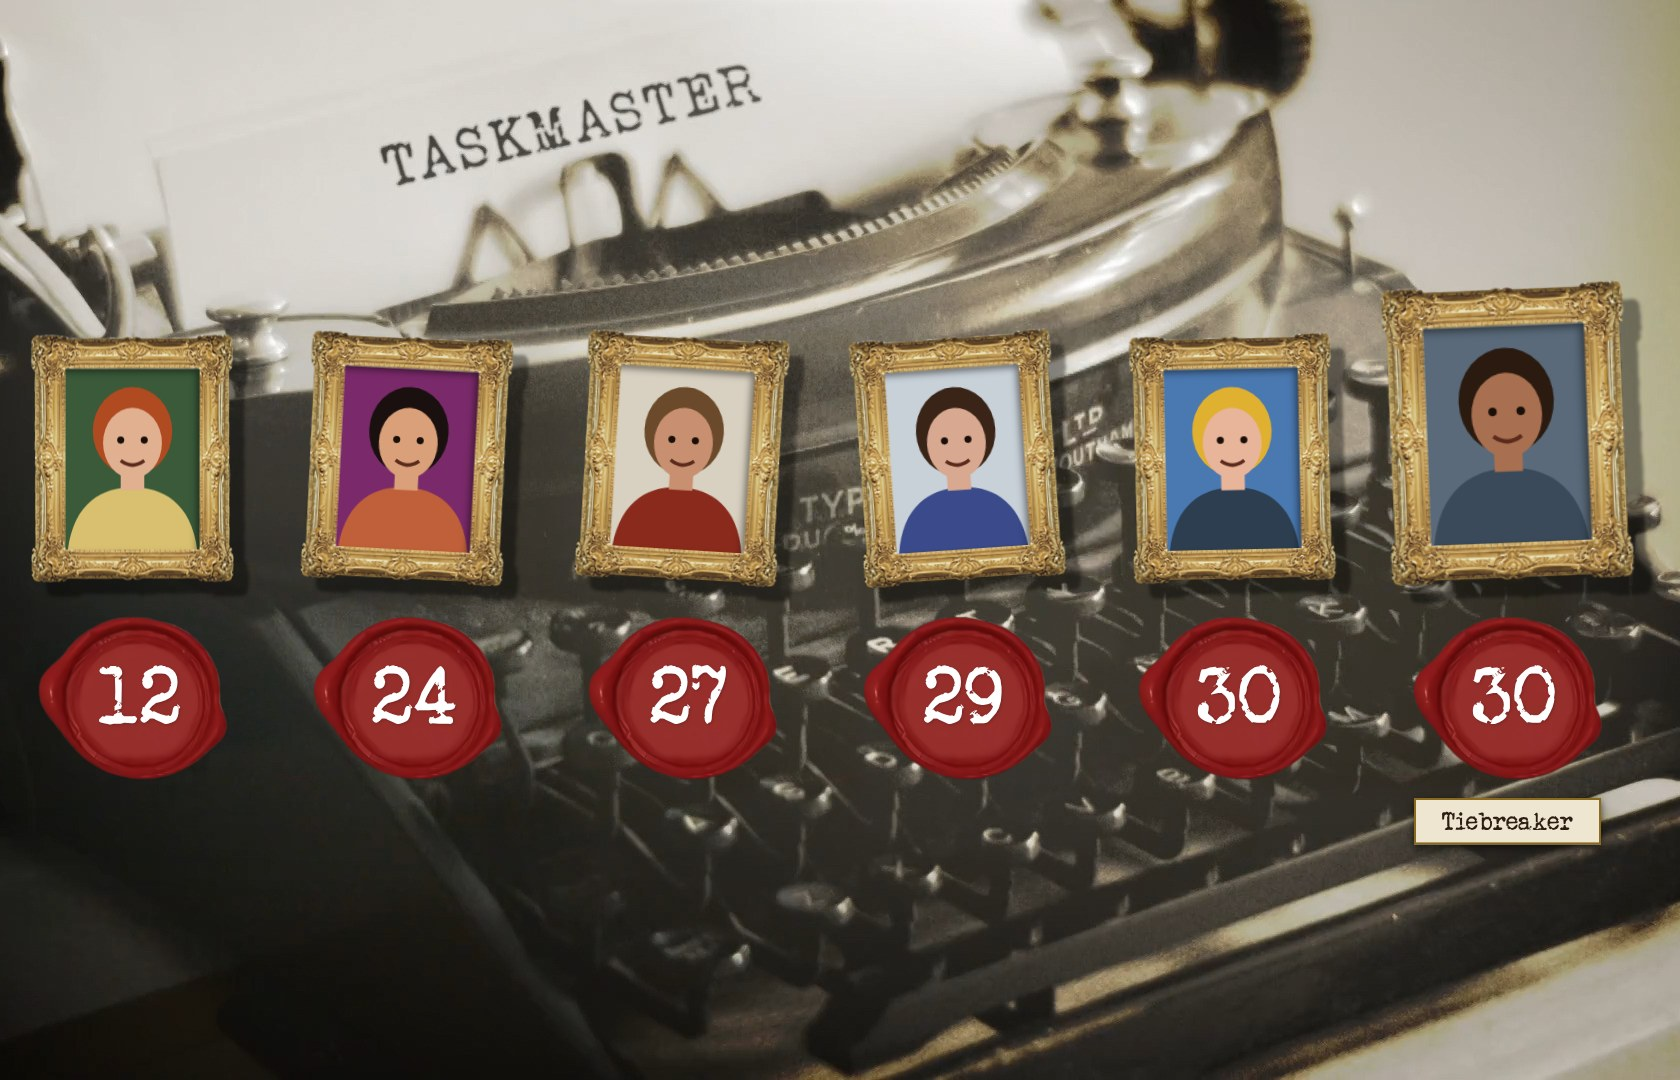
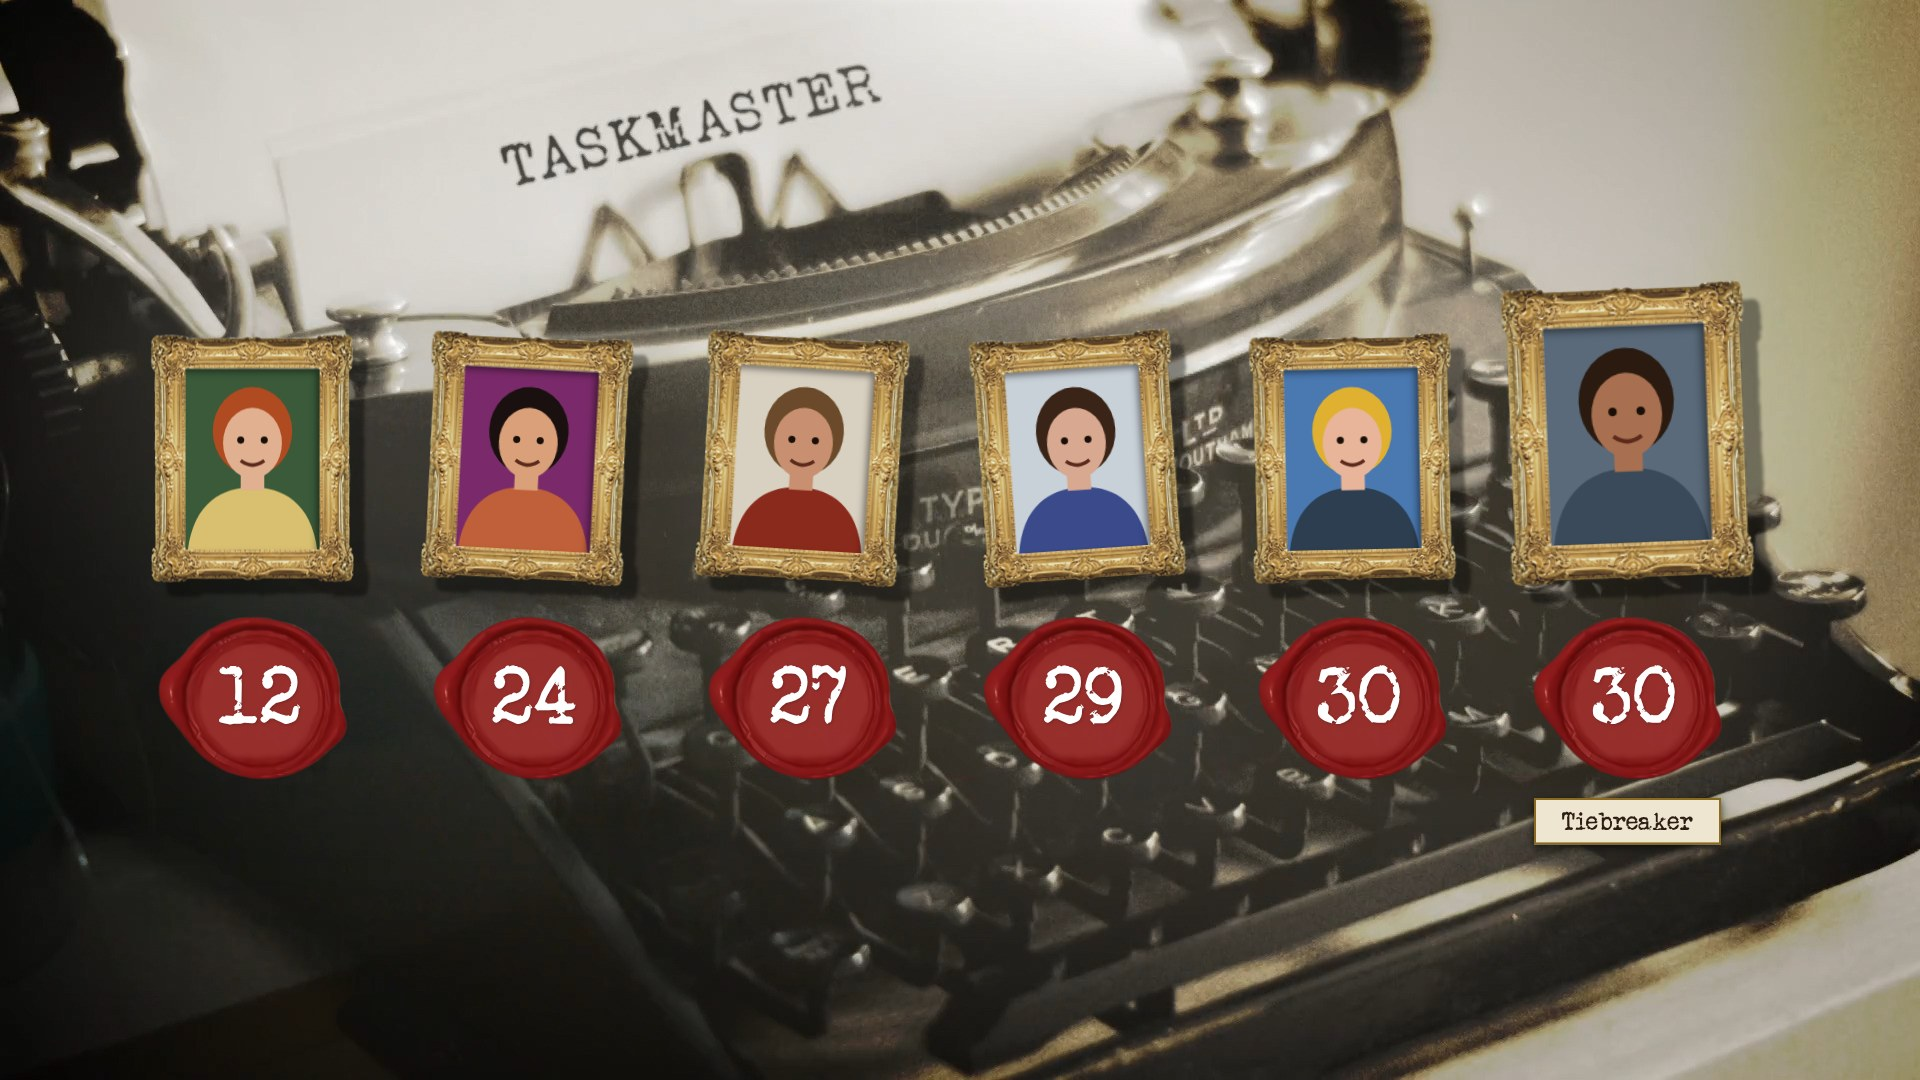
Draw the zip's scoreboard at 1920x1080, like the TV
The row sits centred on a 16:9 screen, scaled down as the stage scales it when
there are more guests than fit, so it matches the prize haul and the TV.

Claude-Session: https://claude.ai/code/session_01MCbF4JDCJEwkkjubeaCq1Y

diff --git a/src/scoreboard/scoreboardImage.ts b/src/scoreboard/scoreboardImage.ts
@@ -7,8 +7,9 @@ import { shownTotals } from "./scoring";
 
 /*
  * The scoreboard for the download-all zip, redrawn on a canvas from ScoreboardStage's own measurements
- * (scoreboard.css): the frames, seals and background as the room last saw them, at the scoreboard's own size
- * (280px a contestant by 1080px) whatever screen does the downloading. Settled, as after the slide; every face
+ * (scoreboard.css): the frames, seals and background as the room last saw them, on a 1920 by 1080 TV whatever
+ * screen does the downloading: the row 280px a contestant, centred, and scaled down as the stage scales it when
+ * it's wider than the screen. Settled, as after the slide; every face
  * sharp, mosaic or not; and when a tie at the top was settled by the tiebreaker, only its winner is enlarged,
  * on the right, with a paper "Tiebreaker" placard under the seal (the prize haul's). Keep it in step with
  * ScoreboardStage when that changes.
@@ -93,13 +94,20 @@ export async function renderScoreboard(board: Scoreboard | undefined): Promise<B
   await document.fonts.load('84px "Typewriter"');
 
   const canvas = document.createElement("canvas");
-  canvas.width = Math.max(280 * ids.length, 280);
+  canvas.width = 1920;
   canvas.height = 1080;
   const ctx = canvas.getContext("2d")!;
   // background: center / cover
   const k = Math.max(canvas.width / bg!.naturalWidth, canvas.height / bg!.naturalHeight);
   ctx.drawImage(bg!, (canvas.width - bg!.naturalWidth * k) / 2, (canvas.height - bg!.naturalHeight * k) / 2, bg!.naturalWidth * k, bg!.naturalHeight * k);
 
+  // As ScoreboardStage fits the row to the screen: scaled about its left middle, then centred across.
+  const rowW = 280 * ids.length;
+  const m = Math.min(canvas.width / rowW, 1);
+  ctx.save();
+  ctx.translate((canvas.width - rowW * m) / 2, canvas.height / 2);
+  ctx.scale(m, m);
+  ctx.translate(0, -canvas.height / 2);
   const rowTop = (canvas.height - ROW_H) / 2;
   const sealH = (WIDTH * sealImg!.naturalHeight) / sealImg!.naturalWidth;
   // The original adds the last contestant first, so each one overlaps the next to its left.
@@ -114,8 +122,8 @@ export async function renderScoreboard(board: Scoreboard | undefined): Promise<B
     ctx.translate(0, -FRAME_H / 2);
     ctx.rotate(sway(n));
     ctx.shadowColor = "rgba(0, 0, 0, 0.4)";
-    ctx.shadowOffsetX = 15 * scale(id);
-    ctx.shadowOffsetY = 15 * scale(id);
+    ctx.shadowOffsetX = 15 * scale(id) * m;
+    ctx.shadowOffsetY = 15 * scale(id) * m;
     ctx.shadowBlur = 3;
     ctx.drawImage(framed(faces[n]!, c.photo ? c.crop : undefined, frameImg!), -WIDTH / 2, -FRAME_H / 2);
     ctx.restore();
@@ -136,6 +144,7 @@ export async function renderScoreboard(board: Scoreboard | undefined): Promise<B
 
     if (id === settled) placard(ctx, "Tiebreaker", x + WIDTH / 2, sy + sealH + 14, 26, 3, 26);
   }
+  ctx.restore();
   return new Promise((resolve, reject) => canvas.toBlob((b) => (b ? resolve(b) : reject(new Error("Couldn't draw the scoreboard."))), "image/png"));
 }
 

diff --git a/docs/style-guide.md b/docs/style-guide.md
@@ -185,7 +185,7 @@ Each screen has its own rules. Know which one you're designing for.
 - **Prize haul** (`.haul`): the finale. "Prize Haul" as a huge typewriter `h1` across the top, the winner's headshot in the largest gold frame in the centre with a paper placard ("Priya is the winner!"), and each prize's ★ photo in smaller frames around it, each with a small "from Sam" placard. The prizes hang one by one from the centre outwards.
 - **The scoreboard is the one exception to the curtain.** It's ported as is from tm-scoreboard (`src/scoreboard/scoreboard.css`, VodBox, MIT): its own sepia typewriter photo (`assets/background.jpg`), each contestant's headshot in a gold frame (cropped as the host chose, § Framed media) over their score on a red wax seal, sorted with the leader scaled up, sliding to new places over 2s. It's sized in fixed px and scaled to the screen. Leave its look alone so it stays the show's own; new stage screens follow the curtain rules above, not this one.
 - **Download all** (`.corner-download`, `DownloadZip.tsx`): a small paper button in the bottom-left corner, only while the host has "Download button on the big screen" on, over the collecting screen, the scoreboard and the prize haul (where the night ends). "⬇ Download photos, videos & scores (10)": the count is the photos and videos, and once the scoreboard has shown points the scores go in too; with no photos, "⬇ Download the scores". The zip has a folder per guest and, at its top, the scores, drawn for the zip rather than screenshotted (`zipScores.ts`):
-  - **The scoreboard** (`scoreboardImage.ts`): the big screen's scoreboard redrawn on a canvas from its own measurements, at its own size (280px a contestant by 1080), as the room last saw it: settled, every face sharp (no mosaics), each frame's tilt frozen part way through its sway, no names. A tie at the top that the tiebreaker settled enlarges only its winner, on the right, with the prize haul's paper placard "Tiebreaker" under the seal. See: [zip-final-scoreboard.jpg](screens/zip-final-scoreboard.jpg).
+  - **The scoreboard** (`scoreboardImage.ts`): the big screen's scoreboard redrawn on a canvas from its own measurements, at 1920×1080 like the TV (the row 280px a contestant, centred, scaled down as the stage scales it when there are more guests than fit), as the room last saw it: settled, every face sharp (no mosaics), each frame's tilt frozen part way through its sway, no names. A tie at the top that the tiebreaker settled enlarges only its winner, on the right, with the prize haul's paper placard "Tiebreaker" under the seal. See: [zip-final-scoreboard.jpg](screens/zip-final-scoreboard.jpg).
   - **The prize haul** (`haulImage.ts`): the haul redrawn on a canvas at 1920×1080 with every prize hung. Only once the night is decided and with a prize photo in. See: [zip-prize-haul.jpg](screens/zip-prize-haul.jpg).
   - **Scores by task** (`scoresPdf.ts`): the Print PDF's paper (plain black typewriter on white Letter). The party's name, "Scores by task · October 31, 2026" (the day the first guest checked in), a row per task in the order played, a column per guest lowest to highest as on the scoreboard, a bonus kept apart in the cell ("3 +1"), a DQ as "DQ", totals along the bottom and "Tiebreaker: Priya" under them. Marked up in **ballpoint blue** (`#1f389e`, `0.12 0.22 0.62` in the PDF: its one colour, on the style sheet as "pen") as if by hand: each task's top points underlined (ties all, never a DQ) and the winner's total circled in one loop that overshoots its start. See: [zip-scores-by-task.jpg](screens/zip-scores-by-task.jpg).
   - Named "Final scoreboard.png", "Scores by task.pdf" and "Prize haul.png" once the night is decided; before that the names say how far it got ("Scoreboard after task 5 of 8.png", "Scores by task so far.pdf", the PDF saying "Scores so far · after 5 of 8 tasks"), there's no haul and nothing is circled. The images never change for it. See: [zip-main-download.jpg](screens/zip-main-download.jpg).

diff --git a/docs/screens/README.md b/docs/screens/README.md
@@ -347,6 +347,6 @@ The download-all zip (2026-10-25, the ABCD party's last night: Alex and Priya ti
 | File | What it shows |
 |---|---|
 | `zip-main-download.jpg` | Main screen: the final scoreboard with "⬇ Download photos, videos & scores (10)" in the bottom-left corner |
-| `zip-final-scoreboard.jpg` | "Final scoreboard.png": the scoreboard redrawn at 1680×1080, faces sharp, tilts frozen, only Priya enlarged with the "Tiebreaker" placard |
+| `zip-final-scoreboard.jpg` | "Final scoreboard.png": the scoreboard redrawn at 1920×1080, faces sharp, tilts frozen, only Priya enlarged with the "Tiebreaker" placard |
 | `zip-prize-haul.jpg` | "Prize haul.png": the haul at 1920×1080, Priya in the centre, the four prizes hung |
 | `zip-scores-by-task.jpg` | "Scores by task.pdf", page 1: the grid lowest to highest, "3 +1" and "DQ", the top points underlined and Priya's 30 circled in blue pen, "Tiebreaker: Priya" |
